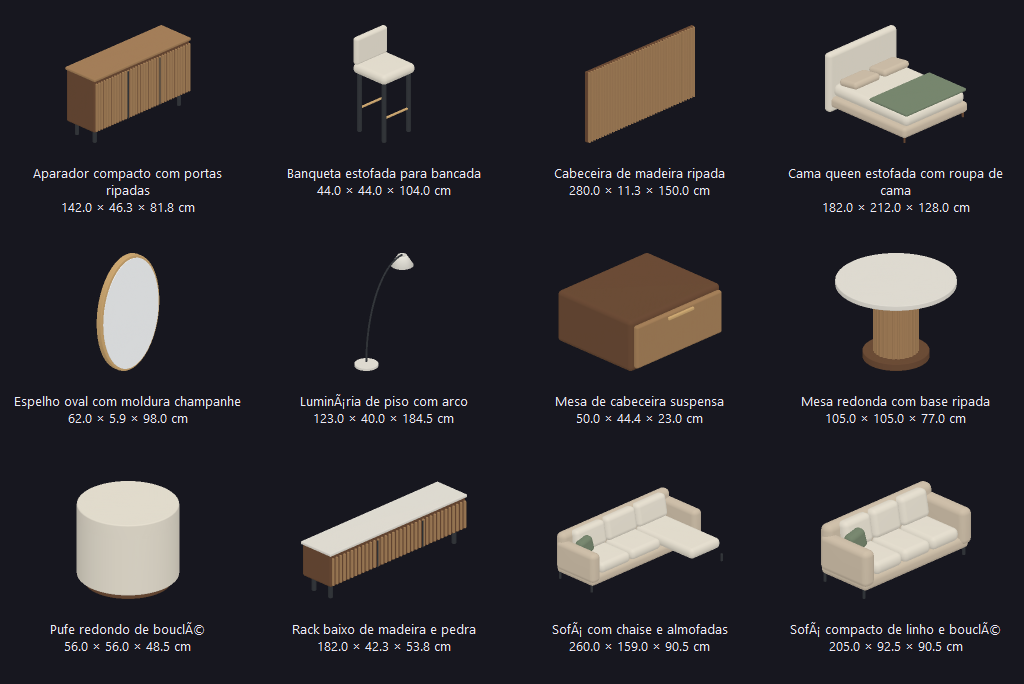
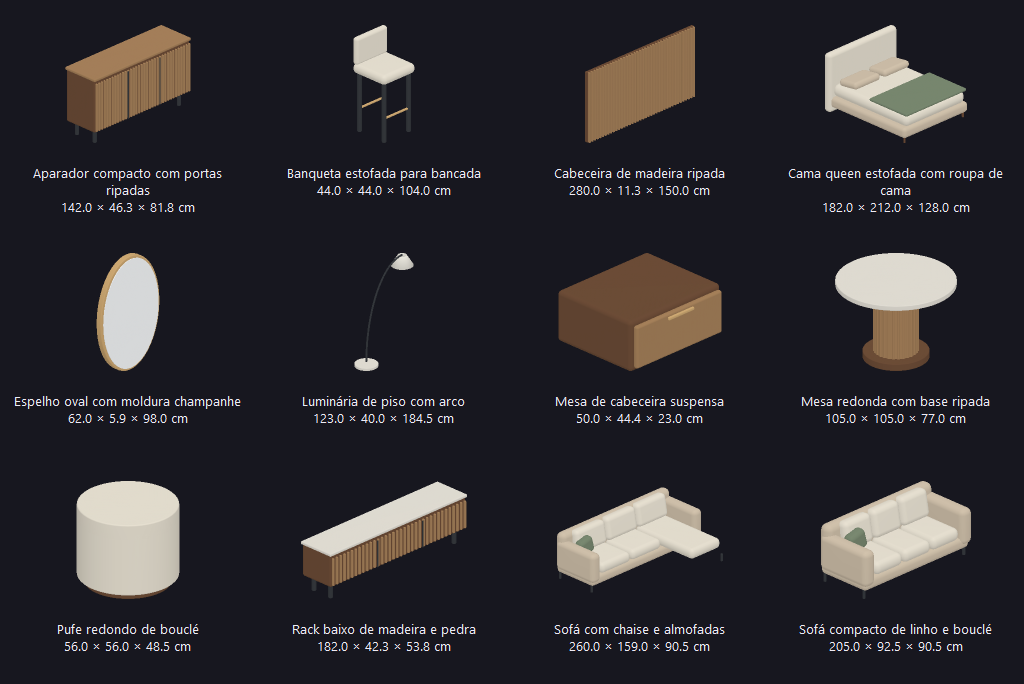
fix: preserve Portuguese furniture names and category searches

diff --git a/tests/test_core.cpp b/tests/test_core.cpp
@@ -394,6 +394,10 @@ TEST_CASE("Original contemporary furniture remains portable and follows mounting
         REQUIRE(meshSnapshot(restored) == snapshot);
     }
     REQUIRE(library.search("sofa").size() == 2);
+    REQUIRE(library.search("sofa").front().name.startsWith(QString::fromUtf8("Sofá")));
+    REQUIRE(library.search("luminaria").size() == 1);
+    REQUIRE(library.search("boucle").size() == 2);
+    REQUIRE(library.search({}, "Decoração").size() == 2);
     REQUIRE(library.search("cama queen").size() == 1);
     REQUIRE(library.search({}, "Dormitório").size() == 3);
     REQUIRE(library.search("ripad").size() == 3);

diff --git a/docs/CATALOG_EXPANSION.md b/docs/CATALOG_EXPANSION.md
@@ -30,7 +30,7 @@ Render executado com Blender 5.2.1 LTS/Cycles CPU, 960×540, 64 samples, denoise
 
 ## Verificação
 
-Build Release Windows com Qt 6.11.2/OpenCASCADE 7.9.3. **28 casos / 1.702 assertions** passaram. Cobertura inclui as 24 malhas Poly Haven, os 12 designs originais, UVs/normais, mapas, hashes, categorias, portabilidade, montagens na parede e uma regressão de superfícies cruzadas que exige ocultação por pixel.
+Build Release Windows com Qt 6.11.2/OpenCASCADE 7.9.3. **28 casos / 1.706 assertions** passaram. Cobertura inclui as 24 malhas Poly Haven, os 12 designs originais, UVs/normais, mapas, hashes, categorias, portabilidade, montagens na parede e uma regressão de superfícies cruzadas que exige ocultação por pixel.
 
 Smoke nativo passou com 36 miniaturas e arraste real de sofá, cama, espelho e mesa suspensa. Também passou a regressão de montagem com 115 miniaturas, interface a 900 px, tutorial/home e recuperação após encerramento forçado. Relatórios locais em `build-catalog/*-report.txt`. Build de verificação usa uma cópia do commit e apenas as mudanças do catálogo, preservando trabalhos em andamento no render e a versão anterior aberta pelo usuário.
 
@@ -40,3 +40,5 @@ ctest --test-dir build-catalog/bin --output-on-failure -V
 ```
 
 No host de desenvolvimento, **Abrir LibreMax.cmd** usa a build nova; salvar e fechar a versão antiga antes de reabrir permite carregar o catálogo atualizado. Não é instalador portátil. Paridade integral, fila/galeria de renders, diagnóstico GPU, HDRI/EXR e as demais lacunas da master spec continuam em desenvolvimento.
+
+Reprodução independente em Blender 5.2.1: as 12 malhas originais, o catálogo e a proveniência foram gerados novamente em outra pasta. Os 14 arquivos coincidiram byte a byte. A verificação detectou e corrigiu uma conversão de codificação no catálogo; buscas sem acentos e o filtro Decoração agora têm regressão explícita.

diff --git a/docs/TEST_REPORT.md b/docs/TEST_REPORT.md
@@ -1,6 +1,6 @@
 # Test report — ampliação contemporânea 0.6.0
 
-Windows: **28 casos / 1.702 assertions** aprovados. Catálogo de 115 itens, filtro com 36 modelos, 18 acréscimos, ocultação correta das miniaturas, arraste de sofá/cama/peças suspensas, arquivo único, UI a 900 px, tutorial/home e recuperação passaram. Render real Cycles CPU com o novo sofá também passou. [Evidência e limites](CATALOG_EXPANSION.md). Verificação Linux desta ampliação ainda pendente; o resultado abaixo refere-se ao commit anterior.
+Windows: **28 casos / 1.706 assertions** aprovados. Catálogo de 115 itens, filtro com 36 modelos, 18 acréscimos, ocultação correta das miniaturas, arraste de sofá/cama/peças suspensas, arquivo único, UI a 900 px, tutorial/home e recuperação passaram. Render real Cycles CPU com o novo sofá também passou. [Evidência e limites](CATALOG_EXPANSION.md). Verificação Linux desta ampliação ainda pendente; o resultado abaixo refere-se ao commit anterior.
 
 ---
 
